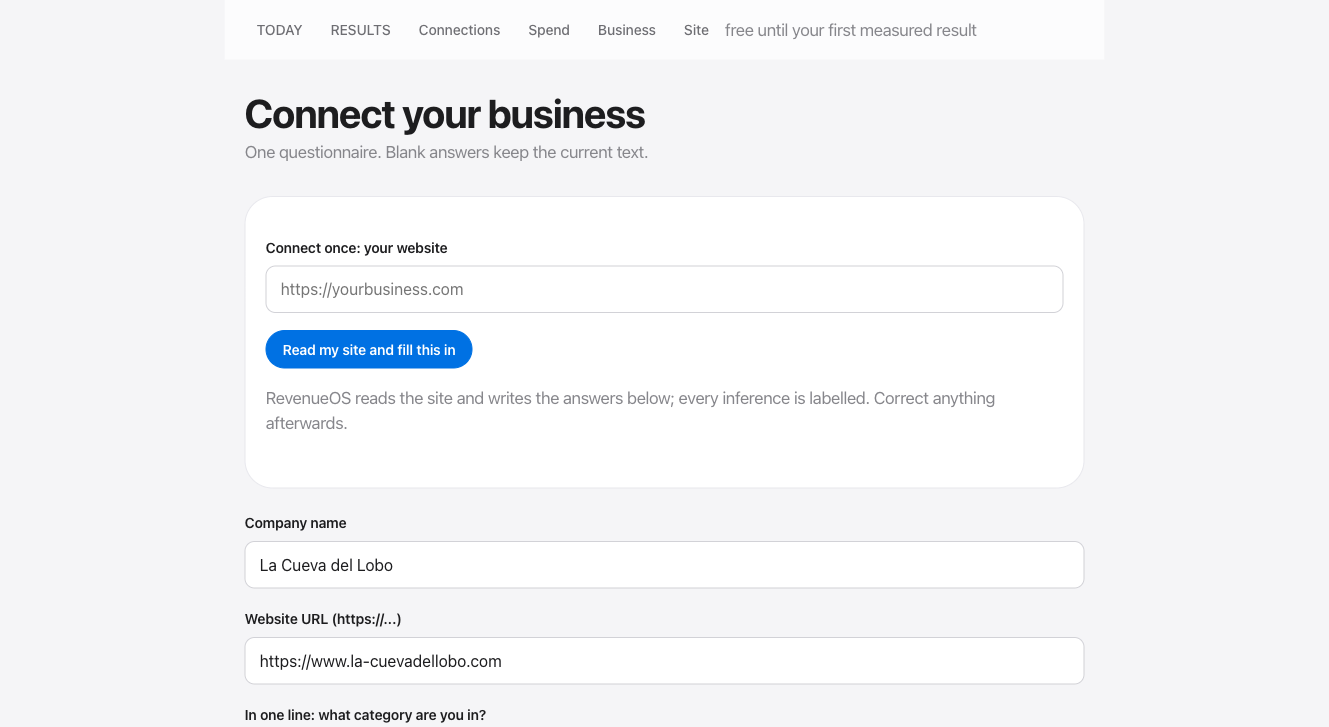
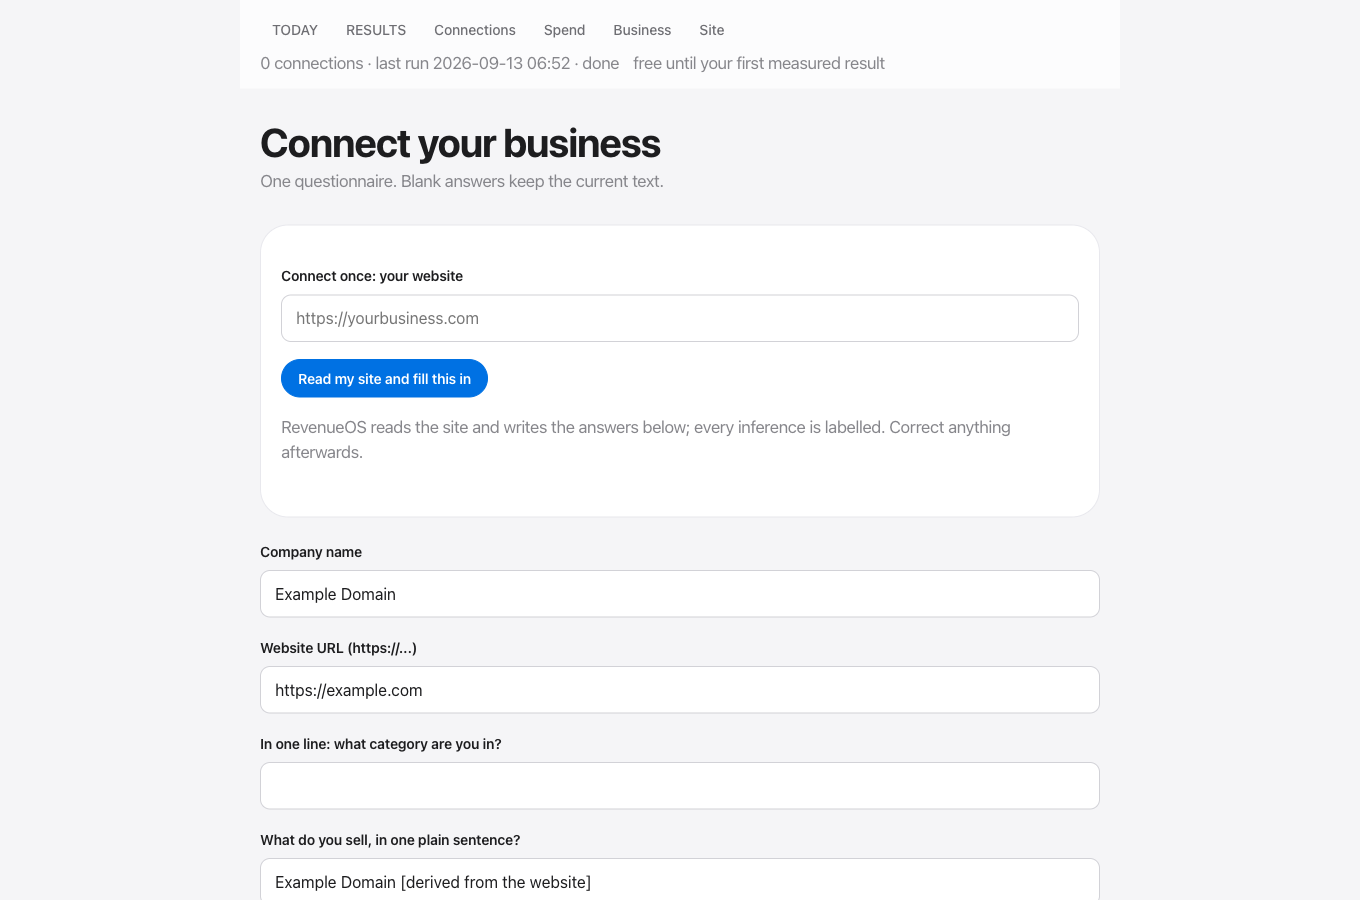
Public presentation without business identity: neutral example.com demo and screenshots; security contact
Claude-Session: https://claude.ai/code/session_01RyQEpqddguMx3F2A5bHPR7

diff --git a/website/index.html b/website/index.html
@@ -372,7 +372,7 @@ $0 pipeline generated</pre>
     <div class="eyebrow">See it, step by step</div>
     <h2>Six screens. That is the whole product.</h2>
     <div class="steps" role="tablist" aria-label="Walkthrough steps">
-      <button class="stp is-on" role="tab" data-shot="screenshots/connect-once.png" data-cap="1 · Connect once. Paste your website; RevenueOS fills in your business profile and labels every guess.">1<span>Connect once</span></button>
+      <button class="stp is-on" role="tab" data-shot="screenshots/connect-once.png" data-cap="1 · Connect once. Paste your website; RevenueOS fills in your business profile from the site and labels every guess.">1<span>Connect once</span></button>
       <button class="stp" role="tab" data-shot="screenshots/watch-it-work.png" data-cap="2 · Watch it work. Every check streams as it runs: pages crawled, what is on the homepage, what passed, what failed.">2<span>It reads everything</span></button>
       <button class="stp" role="tab" data-shot="screenshots/today-current.png" data-cap="3 · Approve. Each finding is one line with Approve, Execute, Ignore. Nothing happens until you say so.">3<span>You approve</span></button>
       <button class="stp" role="tab" data-shot="screenshots/connections.png" data-cap="4 · Execute. Connected accounts stay read-only until you allow changes; then it deploys the fix, pauses the campaign, books the call, sends the invoice.">4<span>It executes</span></button>
@@ -380,7 +380,7 @@ $0 pipeline generated</pre>
       <button class="stp" role="tab" data-shot="screenshots/results-current.png" data-cap="6 · Pay. Only after a measured result you agreed with, then $99/month to keep it running.">6<span>You pay</span></button>
     </div>
     <figure class="stage-shot"><img src="screenshots/connect-once.png" alt="RevenueOS: connect once by pasting your website" loading="lazy"><figcaption>1 · Connect once. Paste your website; RevenueOS fills in your business profile and labels every guess.</figcaption></figure>
-    <p class="loop-legend">Every screenshot is the real product on a real business (Example Business, Adelaide), captured 2026-09-13.</p>
+    <p class="loop-legend">Every screenshot is the real product running on the neutral example domain (example.com), captured 2026-09-13. Nothing here is mocked.</p>
   </section>
 
   <section id="agents">

diff --git a/tests/test_sources.py b/tests/test_sources.py
@@ -6,7 +6,7 @@ from revenueos.workers import discover, run_worker, sources
 
 def test_osm_source_stages_only_sites_with_ad_tags_and_a_business_email(monkeypatch):
     monkeypatch.setattr(sources, "fetch_osm", lambda bbox, kinds=None, limit=600, timeout=150.0: [
-        {"osm_id": "n1", "name": "Glow Salon", "website": "https://glow.example", "email": "", "phone": "", "kind": "hairdresser", "suburb": "Example Suburb"},
+        {"osm_id": "n1", "name": "Glow Salon", "website": "https://glow.example", "email": "", "phone": "", "kind": "hairdresser", "suburb": "Northtown"},
         {"osm_id": "n2", "name": "Quiet Cafe", "website": "https://quiet.example", "email": "", "phone": "", "kind": "cafe", "suburb": "Norwood"},
         {"osm_id": "n3", "name": "Dead Site", "website": "https://dead.example", "email": "", "phone": "", "kind": "dentist", "suburb": ""},
         {"osm_id": "n4", "name": "Gmail Only", "website": "https://gm.example", "email": "owner@gmail.com", "phone": "", "kind": "florist", "suburb": ""},
@@ -29,7 +29,7 @@ def test_osm_source_stages_only_sites_with_ad_tags_and_a_business_email(monkeypa
     assert [r["company"] for r in rows] == ["Glow Salon"]
     r = rows[0]
     assert r["email"] == "hello@glow.example" and r["lead_id"] == "osm:n1"
-    assert r["reason"] == ("hairdresser in Example Suburb (OpenStreetMap); ad/analytics tags on the site: Meta Pixel, GA4; online booking link; "
+    assert r["reason"] == ("hairdresser in Northtown (OpenStreetMap); ad/analytics tags on the site: Meta Pixel, GA4; online booking link; "
                            "business email published on the site: hello@glow.example; phone shown but not tappable; no LocalBusiness schema")
 
 
@@ -37,7 +37,7 @@ def test_discover_runs_the_osm_source_from_config(workspace, store, onboarded, m
     onboarded.config["discover"] = {"osm": {"bbox": [-35.05, 138.45, -34.75, 138.75], "area": "Adelaide"}}
     monkeypatch.setattr(sources, "osm_leads", lambda cfg: ([{
         "email": "hello@glow.example", "first_name": "", "last_name": "", "company": "Glow Salon", "title": "",
-        "website": "https://glow.example/", "linkedin_url": "", "reason": "hairdresser in Example Suburb (OpenStreetMap); ad/analytics tags on the site: Meta Pixel",
+        "website": "https://glow.example/", "linkedin_url": "", "reason": "hairdresser in Northtown (OpenStreetMap); ad/analytics tags on the site: Meta Pixel",
         "lead_id": "osm:n1", "_source": "osm", "_signals": {"meta_pixel": True}}], {"candidates": 1, "reachable": 1, "with_ad_tag": 1, "with_email": 1, "staged": 1}))
     r = run_worker("discover", workspace, store, onboarded, None)
     assert r.ok and r.actions_created == 1 and r.details["osm"]["staged"] == 1, r

diff --git a/tests/test_qualify.py b/tests/test_qualify.py
@@ -10,7 +10,7 @@ from revenueos.workers import run_worker
 # Rows shaped like the September GitHub scrape: qualified_at stamped on rows with no email at all.
 SCRAPE_CSV = """email,first_name,last_name,company,title,website,linkedin_url,reason,lead_id,qualified_at
 ,Jeremy,Carmona,Clear Concise Consulting,Founder,,https://github.com/ccc,forked a repo,gh:ccc,2026-09-12
-acmeai@acme-studio.com,La,Acme,{acmeAI},agency,https://www.acme-studio.com/,https://github.com/lc,forked a repo,gh:lc,2026-09-12
+studio@acme-studio.example,Ana,Ruiz,{acmeAI},agency,https://www.acme-studio.example/,https://github.com/lc,forked a repo,gh:lc,2026-09-12
 dasha.example@gmail.com,Dasha,Z,northwind-labs,,https://northwind-labs.example/,https://github.com/dk,forked a repo,gh:dk,2026-09-12
 ,Wu,Shuwen,Tiktok,intern,,https://github.com/ws,forked a repo,gh:ws,2026-09-12
 ,Zack,Zang,sugarcrm @IBM @Citigroup @GE,,,https://github.com/zz,forked a repo,gh:zz,2026-09-12
@@ -75,7 +75,7 @@ def test_no_lead_without_a_contact_email_is_ever_counted_as_qualified(workspace,
         if not (lead.get("contact_email") or "").strip():
             assert lead["status"] == "new", lead["business_name"]
     assert {a["title"] for a in store.list_actions("pending", "prospect")} == {
-        "Qualified prospect: La Acme at acmeAI", "Qualified prospect: Ana Plum at PlumAngola", "Qualified prospect: Tassos S at Tassos.gr"}
+        "Qualified prospect: Ana Ruiz at acmeAI", "Qualified prospect: Ana Plum at PlumAngola", "Qualified prospect: Tassos S at Tassos.gr"}
     brief = build_brief(store)
     text = brief.render_text("Acme")
     assert "leads: 10 found · 5 contactable · 3 qualified" in text and "3 qualified prospects found" in text
@@ -111,7 +111,7 @@ def test_staging_never_writes_qualified_at(tmp_path):
 
     src = tmp_path / "forks.csv"
     src.write_text("login,name,company,email,blog,location,bio,twitter_username,public_repos,followers,created_at,html_url\n"
-                   "acme-studio,Acme Studio,{acmeAI},acmeai@acme-studio.com,https://www.acme-studio.com/,,agency,,130,5,2020,https://github.com/acme-studio\n"
+                   "acme-studio,Ana Ruiz,{acmeAI},studio@acme-studio.example,https://www.acme-studio.example/,,agency,,130,5,2020,https://github.com/acme-studio\n"
                    "ccc,Jeremy Carmona,Clear Concise Consulting,,,,founder,,12,2,2021,https://github.com/ccc\n")
     out = subprocess.run([sys.executable, "scripts/stage_leads.py", str(src), "--signal", "forked marketingskills"],
                          capture_output=True, text=True, check=True, cwd=str(__import__("pathlib").Path(__file__).resolve().parents[1]))

diff --git a/tests/test_onboard.py b/tests/test_onboard.py
@@ -8,11 +8,11 @@ from revenueos.billing import pay_on_result
 from revenueos.cli import main
 
 HOME = """<html lang="en"><head><title>Best Hair Salon in Adelaide | Glow Salon</title>
-<meta name="description" content="Glow Salon, Adelaide's balayage and extensions specialists in Example Suburb."><meta property="og:site_name" content="Glow Salon">
+<meta name="description" content="Glow Salon, the city's balayage and extensions specialists."><meta property="og:site_name" content="Glow Salon">
 <script>fbq('init','700642230440253');</script></head>
 <body><h1>Adelaide Hair Experts | Blonde &amp; Extensions</h1><a href="/booking">Book online</a><a href="/about">About</a>
-<p>Call +61 8 0000 0000</p><a href="https://instagram.com/glow">Instagram</a><a href="mailto:hello@glow.example">email</a></body></html>"""
-ABOUT = "<html><head><title>About</title></head><body><h2>Our team</h2><p>Two salons, Example Suburb and North Adelaide, since 2012.</p></body></html>"
+<p>Call +61 8 5550 0100</p><a href="https://instagram.com/glow">Instagram</a><a href="mailto:hello@glow.example">email</a></body></html>"""
+ABOUT = "<html><head><title>About</title></head><body><h2>Our team</h2><p>Two salons, north and south of the river, since 2012.</p></body></html>"
 
 
 def _client():
@@ -27,7 +27,7 @@ def _client():
 
 def test_read_site_and_heuristic_answers():
     facts = onboard.read_site("https://glow.example", client=_client())
-    assert facts["ok"] and facts["site_name"] == "Glow Salon" and facts["phones"] == ["+61 8 0000 0000"] and facts["booking_url"] == "/booking"
+    assert facts["ok"] and facts["site_name"] == "Glow Salon" and facts["phones"] == ["+61 8 5550 0100"] and facts["booking_url"] == "/booking"
     assert "https://glow.example/about" in facts["pages"] and "Two salons" in facts["pages"]["https://glow.example/about"]
     a = onboard.heuristic_answers(facts)
     assert a["company_name"] == "Glow Salon" and a["website"].startswith("https://glow.example")

diff --git a/tests/test_workers.py b/tests/test_workers.py
@@ -201,6 +201,14 @@ def test_content_matches_channels_to_skills(workspace, store, onboarded):
     assert "ANTHROPIC_API_KEY" in execute_action(workspace, store, onboarded, None, acts[0])
 
 
+def test_content_never_prints_a_template_placeholder_as_the_category(workspace, onboarded):
+    from revenueos.workers.content import customer_facing
+
+    onboarded.manifest["category"] = "Replace with your category"
+    title, content = customer_facing({"name": "x", "description": "Write a landing page.", "what": "a conversion review"}, "website", onboarded)
+    assert "Replace" not in content and "Acme Scheduling" in content
+
+
 def test_content_curated_map_points_at_real_skills(workspace):
     from revenueos.registry import load_registry
     from revenueos.workers.content import CHANNEL_SKILLS, opportunities_for
@@ -257,7 +265,7 @@ def test_content_deliverable_sentence_strips_model_instructions():
 
 def test_outreach_observation_needs_a_defect_and_names_the_spend():
     lead = {"business_name": "Glow", "website_url": "https://www.glow.example/", "reason":
-            "hairdresser in Example Suburb (OpenStreetMap); ad/analytics tags on the site: Meta Pixel, GA4; online booking link; business email published on the site: hello@glow.example; phone shown but not tappable; no LocalBusiness schema"}
+            "hairdresser in Northtown (OpenStreetMap); ad/analytics tags on the site: Meta Pixel, GA4; online booking link; business email published on the site: hello@glow.example; phone shown but not tappable; no LocalBusiness schema"}
     kind, text = outreach.observation(lead)
     assert kind == "phone" and text.startswith("glow.example is set up for Meta ads (there is a Meta Pixel on it), so you are paying") and "GA4" not in text
     ads_only = {**lead, "reason": "cafe in Adelaide (OpenStreetMap); ad/analytics tags on the site: Meta Pixel; business email published on the site: a@b.example"}

diff --git a/tests/test_measure.py b/tests/test_measure.py
@@ -164,13 +164,13 @@ def test_homepage_signals_parse_real_markup():
     html = ('<html><head><title>Salon</title><link rel="canonical" href="https://s.example/">'
             '<script>fbq("init", "700642230440253");</script><script src="https://www.googletagmanager.com/gtag/js?id=G-RKDVYP966W"></script>'
             '<script type="application/ld+json">{"@type": "HairSalon"}</script></head>'
-            '<body>Call +61 8 0000 0000 <a href="/booking">Book</a></body></html>')
+            '<body>Call +61 8 5550 0100 <a href="/booking">Book</a></body></html>')
     sig = seo.parse_signals(html, "https://s.example/")
     assert sig["ok"] and sig["phone_text"] and not sig["tel_link"] and sig["booking_link"] and sig["meta_pixel"] and sig["ga4"]
-    assert sig["phones"] == ["+61 8 0000 0000"] and sig["booking_url"] == "/booking" and sig["emails"] == []
+    assert sig["phones"] == ["+61 8 5550 0100"] and sig["booking_url"] == "/booking" and sig["emails"] == []
     finding = seo.signal_findings("https://s.example", {**sig, "local_schema": False})[0]
-    assert "phone numbers shown on the page: +61 8 0000 0000" in finding["why"] and "booking link: /booking" in finding["why"]
+    assert "phone numbers shown on the page: +61 8 5550 0100" in finding["why"] and "booking link: /booking" in finding["why"]
     assert sig["local_schema"] and sig["canonical"] and not sig["google_ads_tag"]
     assert [f["kind"] for f in seo.signal_findings("https://s.example", sig)] == ["phone_not_tappable"]
-    bare = seo.parse_signals("<html><body>Call 08 0000 0000</body></html>", "https://b.example/")
+    bare = seo.parse_signals("<html><body>Call 08 5550 0100</body></html>", "https://b.example/")
     assert [f["kind"] for f in seo.signal_findings("https://b.example", bare)] == ["phone_not_tappable", "no_local_schema", "no_canonical"]

diff --git a/tests/test_panel.py b/tests/test_panel.py
@@ -128,14 +128,14 @@ def test_watch_it_work_details_the_site_audit(server, workspace, store, monkeypa
     monkeypatch.setattr(seo, "authority_gap", lambda *a, **k: None)
     monkeypatch.setattr(seo, "homepage_signals", lambda site, timeout=15.0: {"ok": True, "url": "https://acme-scheduling.example/", "meta_pixel": True, "google_ads_tag": False,
                                                                              "ga4": True, "booking_link": True, "tel_link": False, "phone_text": True, "local_schema": False, "canonical": True,
-                                                                             "phones": ["+61 8 0000 0000"], "emails": [], "booking_url": "/book"})
+                                                                             "phones": ["+61 8 5550 0100"], "emails": [], "booking_url": "/book"})
     srv, ctx = server
     cookie = "rs=" + make_token()
     _req(srv, "POST", "/onboard", urlencode(ANSWERS), cookie=cookie)  # the seo worker needs a website to read
     _s, _h, body = _req(srv, "GET", "/events/run?workers=seo", cookie=cookie)
     events = [json.loads(ln[6:]) for ln in body.splitlines() if ln.startswith("data: ")]
     detail = next(e for e in events if e["state"] == "detail")
-    assert len(detail["pages"]) == 2 and detail["signals"]["meta_pixel"] and detail["phones"] == ["+61 8 0000 0000"]
+    assert len(detail["pages"]) == 2 and detail["signals"]["meta_pixel"] and detail["phones"] == ["+61 8 5550 0100"]
     assert {f["kind"] for f in detail["findings"]} == {"phone_not_tappable", "no_local_schema"}
     assert "sitemap present" in detail["passed"] and "canonical declared" in detail["passed"] and "online booking link present" in detail["passed"]
     _s, _h, today = _req(srv, "GET", "/", cookie=cookie)

diff --git a/tests/test_sanitize.py b/tests/test_sanitize.py
@@ -18,11 +18,11 @@ def test_strip_solicitations_removes_the_line_and_nothing_else():
 
 def test_deliverable_lint_drops_foreign_identity_lines():
     text = (f"# Triage\n**Prepared for:** operator@me.example\n{TIP}\n"
-            "Contact the salon at hello@example.example or the booking line.\n"
-            "Send the file to someone@gmail.example when done.\nUse tel:+6180000 0000 links.\n")
-    out, notes = deliverable_lint(text, allowed_emails=set(), allowed_domains={"example.example"})
+            "Contact the salon at hello@salon.example or the booking line.\n"
+            "Send the file to someone@gmail.example when done.\nUse tel:+61855500100 links.\n")
+    out, notes = deliverable_lint(text, allowed_emails=set(), allowed_domains={"salon.example"})
     assert "Prepared for" not in out and TIP not in out and "someone@gmail.example" not in out
-    assert "hello@example.example" in out and "tel:+6180000 0000" in out
+    assert "hello@salon.example" in out and "tel:+61855500100" in out
     assert any("solicitation" in n for n in notes) and any("someone@gmail.example" in n for n in notes)
 
 

diff --git a/src/revenueos/workers/content.py b/src/revenueos/workers/content.py
@@ -98,7 +98,12 @@ def customer_facing(skill: dict[str, Any], channel: str, ctx: BusinessContext) -
     if len(what) < 12:
         return None
     label = channel.strip().title().replace("Seo", "SEO").replace("Linkedin", "LinkedIn").replace("Github", "GitHub").replace("Tiktok", "TikTok")
-    where = ctx.company_name + (f" ({ctx.manifest.get('category')})" if ctx.manifest.get("category") else "")
+    from ..context import _is_placeholder
+
+    category = (ctx.manifest.get("category") or "").strip()
+    if _is_placeholder(category) or category.lower().startswith(("replace", "your ")):
+        category = ""  # an unfilled template line is not the customer's category
+    where = ctx.company_name + (f" ({category})" if category else "")
     title = f"{label}: {what[0].upper() + what[1:]}"
     content = (f"What you get: {what}, written for {where} from your business profile. "
                "You approve it before anything is published.")

diff --git a/README.md b/README.md
@@ -10,12 +10,14 @@
 <a href="capabilities/README.md">Capabilities</a>
 </p>
 
-RevenueOS is a revenue department for one business. Give it your website. It reads the site,
-your ads, your leads and your mailbox, and turns what it finds into a short list of actions:
-a site fix it can deploy itself, a wasting campaign to pause, an email to send, a call to book,
-an invoice to raise. Nothing changes until you approve it. Afterwards it re-checks the world and
-writes the before → after next to the action. You pay nothing until it has measured a result
-you agreed with.
+RevenueOS is a revenue department for one business.
+
+1. **Connect once.** Give it your website; it fills in the rest and labels every guess.
+2. **Discover.** It reads the site, your ads, your leads and your mailbox and turns what it finds into a short list of actions.
+3. **Approve.** Nothing changes until you approve an action.
+4. **Execute.** It deploys the site fix, pauses the wasting campaign, sends the email, books the call, raises the invoice.
+5. **Measure.** It re-checks the world and records before → after next to the action.
+6. **Pay.** Nothing is charged until it has measured a result you agreed with.
 
 ```
 Connect once → Discover → Approve → Execute → Measure → (agree) → Pay
@@ -29,22 +31,35 @@ revenueos demo https://yoursite.com
 ```
 
 No account, nothing stored. It prints what is costing the site customers and which of those
-fixes RevenueOS deploys itself once connected. A real run:
+fixes RevenueOS deploys itself once connected. Run on the neutral example domain, exactly as
+printed:
 
 ```
-RevenueOS demo — Example Business® (https://example.com)
+RevenueOS demo — Example Domain (https://example.com)
 
-  5 pages crawled · ad/analytics tags: Meta Pixel, GA4 · booking link: yes · phones: +61 8 0000 0000, +61 8 0000 0000
+  1 pages crawled · ad/analytics tags: none · booking link: no · phones: none seen
 
-  1. PHONE NOT TAPPABLE — the number is plain text; a visitor on a phone cannot tap to call
+  1. MISSING DESCRIPTION — https://example.com
+     Page has no meta description.
      → RevenueOS writes the fix as a deliverable you approve, then re-checks the page.
-  2. NO LOCAL SCHEMA — Google cannot read the business type, address and hours
+  2. THIN PAGE — https://example.com
+     Only ~127 characters of body text were extracted.
+     → RevenueOS writes the fix as a deliverable you approve, then re-checks the page.
+  3. NO SITEMAP — https://example.com
+     No sitemap.xml was discovered at the host root or under the site path.
+     → RevenueOS writes the fix as a deliverable you approve, then re-checks the page.
+  4. NO CANONICAL — https://example.com
+     The homepage declares no canonical URL.
      → RevenueOS deploys this fix itself once the site is connected (git or WordPress), then re-checks it.
-  3. NO CANONICAL
-     → RevenueOS deploys this fix itself once the site is connected, then re-checks it.
 
-  3 finding(s). Everything above runs free, every day, once connected. You pay only when you agree with a measured result.
+  4 finding(s). Everything above runs free, every day, once connected:
+     pip install revenueos && revenueos init --from https://example.com && revenueos serve
+  You pay only when you agree with a measured result.
 ```
+
+On a real business the same command also reads the homepage for tappable phone numbers,
+LocalBusiness schema, booking links and ad tags (Meta Pixel, Google Ads, GA4), and the
+Watch-it-work view streams each check as it runs.
 
 ### Run the demo from GitHub, no install
 

diff --git a/SECURITY.md b/SECURITY.md
@@ -2,8 +2,7 @@
 
 ## Reporting a vulnerability
 
-Please report suspected security issues by email to **security@revenueos.example**
-*(placeholder — replace with the project's real security contact before publishing)*.
+Please report suspected security issues to **revenueos@icloud.com**.
 Do not open a public issue for a suspected vulnerability.
 
 Include, if you can:
@@ -12,15 +11,13 @@ Include, if you can:
 - Steps to reproduce it, or a proof of concept.
 - The version or commit you tested against.
 
-We will acknowledge your report within 5 business days and aim to give you an initial
-assessment within 10 business days.
+We read that mailbox and will reply once we have looked at the report.
 
 ## Disclosure timeline
 
-We ask for 90 days from initial report before any public disclosure, to give us time to
-investigate, fix, and release a patch. We will keep you updated on progress throughout,
-and we're happy to credit reporters in the release notes for a fix unless you'd prefer to
-stay anonymous.
+We ask for 90 days from the initial report before any public disclosure, to give us time to
+investigate, fix and release a patch. We are happy to credit reporters in the release notes
+for a fix unless you would prefer to stay anonymous.
 
 ## Supported versions
 
